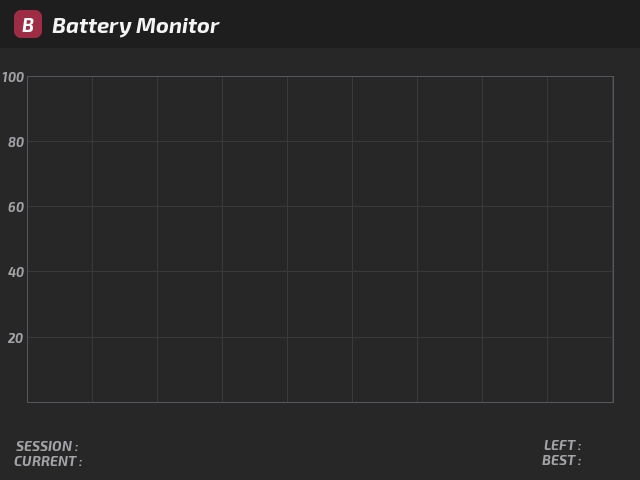
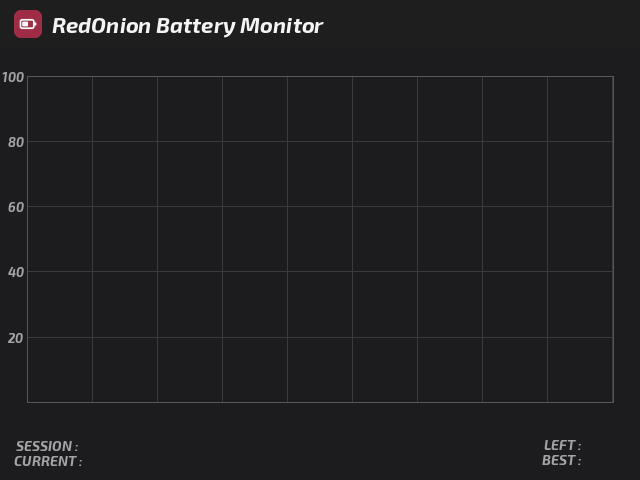
New UI: Battery Monitor becomes RedOnion Battery Monitor, credits to ksielick
- The package (static/packages/App) and the app's label are "RedOnion
  Battery Monitor"; its description: "Battery use, health and
  calibration. Based on ksielick's Battery Monitor". An update clears the
  Package Manager's data, so the old "Battery Monitor" entry goes; the
  installed app is found by its files (App/BatteryMonitorUI), unchanged.
- The header (graph page and waiting screen) has the battery icon instead
  of the "B" and the new name, on the darker grey of the new look; the
  waiting screen says "Based on Battery Monitor by ksielick".
- The documentation page: the new name and the thanks to ksielick.

Claude-Session: https://claude.ai/code/session_01WmBtPRhxkLQsUhwJBnDVjo

Changed region(s): [[0.0938, 0.0312, 0.5, 0.0938], [0.0312, 0.0312, 0.0625, 0.0625]]

diff --git a/website/docs/07-apps/01-included-in-onion/battery-monitor.md b/website/docs/07-apps/01-included-in-onion/battery-monitor.md
@@ -3,8 +3,11 @@ slug: /apps/battery-tool
 description: Monitor your battery usage
 ---
 
-#  Battery Tool
+#  RedOnion Battery Monitor
 <p><i>{frontMatter.description}</i></p>
+
+RedOnion Battery Monitor is based on ksielick's Battery Monitor: thanks to
+ksielick for the app, its battery tests and the AXP (PMIC) tools.
 
 
 ## Presentation
@@ -16,7 +19,7 @@ Onion Battery Tool enables to track and monitor historical battery charge while 
 
 ## Usage
 
-Battery Monitor is available in the Apps section of [Package Manager](package-manager).
+RedOnion Battery Monitor is available in the Apps section of [Package Manager](package-manager).
 
 Onion is recording your daily battery usage, so you can view it graphically just by installing Onion Battery Tool. The battery is monitored only when the device is ON. 
 Onion Battery Tool will allow you to see a little more than the last 24h of use of your battery.
